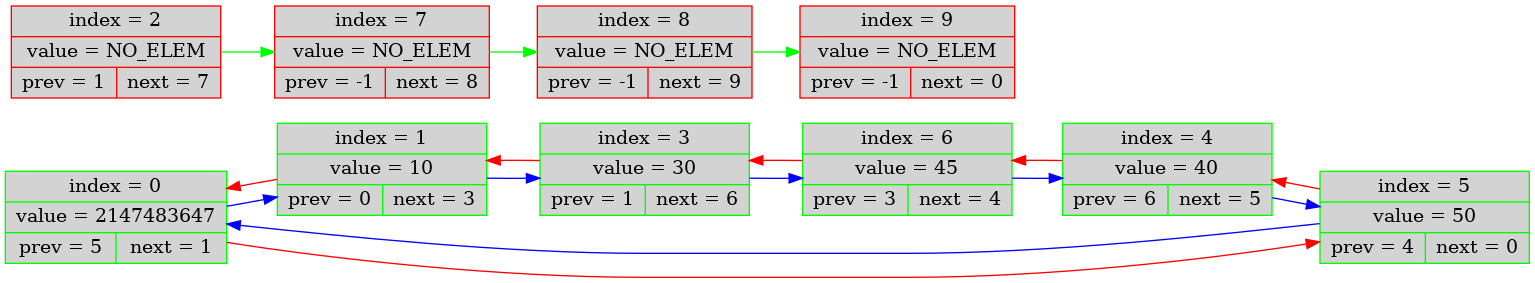
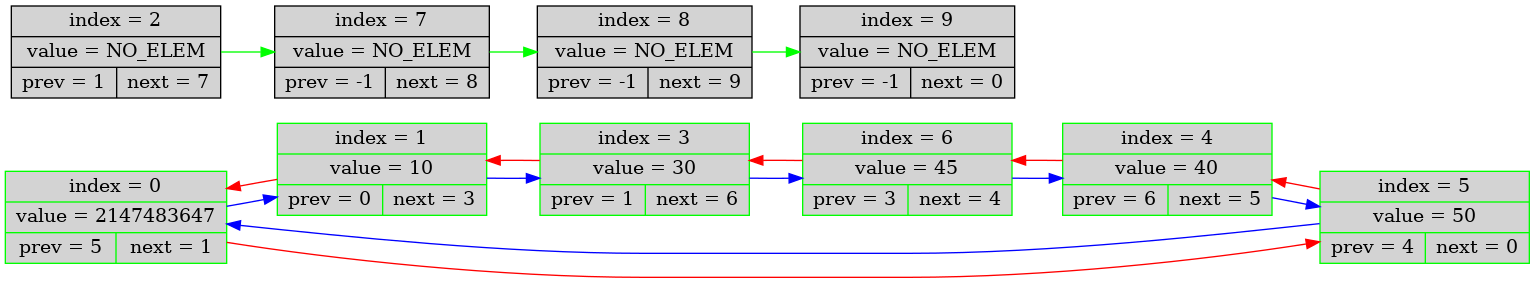
Cosmetic changes

diff --git a/list_main.cpp b/list_main.cpp
@@ -1,6 +1,8 @@
 #include <stdio.h>
 #include <stdlib.h>
-#include "list.h"//спросить про стрелки и про system
+#include <assert.h>
+#include "list.h"
+#include "file_using.h"
 
 int main(int argc, char* argv[])
 {
@@ -12,36 +14,39 @@ int main(int argc, char* argv[])
     if (list_init(&list, START_LIST_SIZE))
         return 1;
 
-    list_insert(&list, 10, 0, argv);
-    list_insert(&list, 20, 1, argv);
-    list_insert(&list, 30, 2, argv);
-    list_insert(&list, 40, 3, argv);
-    list_insert(&list, 50, 4, argv);
-    list_insert(&list, 45, 3, argv);
-    list_delete(&list, 2, argv);
+    list_insert(&list, 10, 0, argv[1]);
+    list_insert(&list, 20, 1, argv[1]);
+    list_insert(&list, 30, 2, argv[1]);
+    list_insert(&list, 40, 3, argv[1]);
+    list_insert(&list, 50, 4, argv[1]);
+    list_insert(&list, 45, 3, argv[1]);
+    list_delete(&list, 2, argv[1]);
 
-    list_dump(&list, argv);
+    list_dump(&list, argv[1]);
 
     list_free(&list);
 
     return 0;
 }
 
-int list_insert(list_t* list, int value, int elem, char** argv)
+int list_insert(list_t* list, int value, int elem, char* dump_file_name)
 {
+    assert(list);
+    assert(dump_file_name);
+
     if (elem > list->list_len)
     {
         printf("Too big element number!\n");
         return 0;
     }
-    else if (list->data[elem] == NO_ELEM)
+    else if (list->elem_status[elem] == 0)
     {
         printf("Can't insert after free element!\n");
         return 0;
     }
 
     if (list_verify(list))
-        list_dump(list, argv);
+        list_dump(list, dump_file_name);
 
     int free_number = list->free_head;
 
@@ -49,48 +54,56 @@ int list_insert(list_t* list, int value, int elem, char** argv)
     list->data[free_number] = value;
     list->next[free_number] = list->next[elem];
     list->prev[free_number] = elem;
+    list->elem_status[free_number] = 1;
     list->next[elem] = free_number;
     list->prev[list->next[free_number]] = free_number;
 
     if (list_verify(list))
-        list_dump(list, argv);
+        list_dump(list, dump_file_name);
 
     return free_number;
 }
 
-int list_delete(list_t* list, int elem, char** argv)
+int list_delete(list_t* list, int elem, char* dump_file_name)
 {
+    assert(list);
+    assert(dump_file_name);
+
     if (elem > list->list_len)
     {
         printf("Too big element number!\n");
         return 0;
     }
-    else if (list->data[elem] == NO_ELEM)
+    else if (list->elem_status[elem] == 0)
     {
         printf("Can't delete free element!\n");
         return 0;
     }
 
     if (list_verify(list))
-        list_dump(list, argv);
+        list_dump(list, dump_file_name);
 
-    list->data[elem] = NO_ELEM;
+    list->elem_status[elem] = 0;
     list->next[list->prev[elem]] = list->next[elem];
     list->prev[list->next[elem]] = list->prev[elem];
     list->next[elem] = list->free_head;
+    list->elem_status[elem] = 0;
     list->free_head = elem;
 
     if (list_verify(list))
-        list_dump(list, argv);
+        list_dump(list, dump_file_name);
 
     return 1;
 }
 
-void list_dump(list_t* list, char** argv)
+void list_dump(list_t* list, char* dump_file_name)
 {
+    assert(list);
+    assert(dump_file_name);
+
     FILE* dump_address = NULL;
 
-    if (check_file_opening(argv[1], &dump_address, "w"))
+    if (check_file_opening(dump_file_name, &dump_address, "w"))
         return;
 
     /*printf("list->data[%p]\n", list->data);
@@ -108,21 +121,20 @@ void list_dump(list_t* list, char** argv)
     printf("list->free_head = %d\n"
            "list->list_len = %d\n", list->free_head, list->list_len);*/
 
-
     fprintf(dump_address, "digraph{\n"
-                          "    rankdir=LR\n");
+                          "\trankdir=LR\n");
     for (int i = 0; i < list->list_len; i++)
     {
-        if (list->data[i] == NO_ELEM)
-            fprintf(dump_address, "    %d[color=\"red\", style=\"filled\",fillcolor=\"lightgrey\", shape = record, label=\"index = %d | value = %s | {prev = %d | next = %d}\"];\n",
+        if (list->elem_status[i] == 0)
+            fprintf(dump_address, "\t%d[color=\"black\", style=\"filled\",fillcolor=\"lightgrey\", shape = record, label=\"index = %d | value = %s | {prev = %d | next = %d}\"];\n",
                 i, i, "NO_ELEM", list->prev[i], list->next[i]);
         else
-            fprintf(dump_address, "    %d[color=\"green\", style=\"filled\",fillcolor=\"lightgrey\", shape = record, label=\"index = %d | value = %d | {prev = %d | next = %d}\"];\n",
+            fprintf(dump_address, " \t%d[color=\"green\", style=\"filled\",fillcolor=\"lightgrey\", shape = record, label=\"index = %d | value = %d | {prev = %d | next = %d}\"];\n",
                 i, i, list->data[i], list->prev[i], list->next[i]);
-        if (list->data[i] != NO_ELEM)
+        if (list->elem_status[i] == 1)
         {
-            fprintf(dump_address, "    %d -> %d[color=\"blue\"]\n", i, list->next[i]);
-            fprintf(dump_address, "    %d -> %d[color=\"red\"]\n", i, list->prev[i]);
+            fprintf(dump_address, "\t%d -> %d[color=\"blue\"]\n", i, list->next[i]);
+            fprintf(dump_address, "\t%d -> %d[color=\"red\"]\n", i, list->prev[i]);
         }
     }
 
@@ -135,44 +147,51 @@ void list_dump(list_t* list, char** argv)
     fprintf(dump_address, "[color = \"green\"]\n");
 
     fprintf(dump_address, "}");
-    //system("dot dump.txt -T png -o dump.png");
 
     if (check_file_closing(dump_address))
         return;
+
+    system("dot dump.txt -T png -o dump.png");
+
     return;
 }
 
-
 bool list_init(list_t* list, int list_size)
 {
+    assert(list);
+
     list->free_head = 1;
     list->list_len = list_size;
     list->data = (int*) calloc(list_size, sizeof(int));
     list->next = (int*) calloc(list_size, sizeof(int));
     list->prev = (int*) calloc(list_size, sizeof(int));
+    list->elem_status = (int*) calloc(list_size, sizeof(int));
     if (list->data == NULL || list->next == NULL || list->prev == NULL)
         return true;
     list->data[0] = LEFT_BIRD;
     list->next[0] = 0;
     list->prev[0] = 0;
+    list->elem_status[0] = 1;
     for (int i = 1; i < list_size; i++)
     {
-        list->data[i] = NO_ELEM;
+        list->data[i] = 0;
         list->next[i] = i+1;
         list->prev[i] = -1;
+        list->elem_status[i] = 0;
     }
     list->next[list_size-1] = 0;
 
     return 0;
 }
 
-bool list_free(list_t* list)
+void list_free(list_t* list)
 {
     free(list->data);
     free(list->next);
     free(list->prev);
+    free(list->elem_status);
 
-    return 0;
+    return;
 }
 
 int list_verify(list_t* list)

diff --git a/list.h b/list.h
@@ -3,11 +3,11 @@
 
 const int LEFT_BIRD = 2147483647;
 const int START_LIST_SIZE = 10;
-const int NO_ELEM = 2147483645;
 
 struct list_t {int* data;
                int* next;
                int* prev;
+               int* elem_status;
                int free_head;
                int list_len;
 };
@@ -20,15 +20,11 @@ enum list_errors{
     ACCORDANCE_ERROR = 4,
 };
 
-bool check_file_founded(int argc);
-bool check_file_opening(const char *input_address, FILE** file_ptr, const char* access_rights);
-bool check_file_closing(FILE* input_address);
-
 bool list_init(list_t* list, int list_size);
-bool list_free(list_t* list);
+void list_free(list_t* list);
 int list_verify(list_t* list);
-void list_dump(list_t* list, char** argv);
-int list_insert(list_t* list, int value, int elem, char** argv);
-int list_delete(list_t* list, int elem, char** argv);
+void list_dump(list_t* list, char* dump_file_name);
+int list_delete(list_t* list, int elem, char* dump_file_name);
+int list_insert(list_t* list, int value, int elem, char* dump_file_name);
 
 #endif //LIST_H

diff --git a/file_using.cpp b/file_using.cpp
@@ -1,0 +1,42 @@
+#include <stdio.h>
+#include <stdlib.h>
+#include <assert.h>
+#include "file_using.h"
+
+const int NUMBER_OF_FILES = 2;
+
+bool check_file_founded(int argc)
+{
+    if (argc < NUMBER_OF_FILES)
+    {
+        fprintf(stderr, "Files not founded\n");
+        return 1;
+    }
+
+    return 0;
+}
+
+bool check_file_opening(const char *input_address, FILE** file_ptr, const char* access_rights)
+{
+    if ((*file_ptr = fopen(input_address, access_rights)) == NULL)
+    {
+        fprintf(stderr, "Can't open file\" %s\"\n", input_address);
+        return 1;
+    }
+
+    return 0;
+}
+
+bool check_file_closing(FILE* input_address)
+{
+    assert(input_address);
+
+    if (fclose(input_address) != 0)
+    {
+        fprintf(stderr, "Error while closing file\n");
+        return 1;
+    }
+
+    return 0;
+}
+

diff --git a/file_using.h b/file_using.h
@@ -1,0 +1,8 @@
+#ifndef FILE_USING_H
+#define FILE_USING_H
+
+bool check_file_founded(int argc);
+bool check_file_opening(const char *input_address, FILE** file_ptr, const char* access_rights);
+bool check_file_closing(FILE* input_address);
+
+#endif //FILE_USING_H
